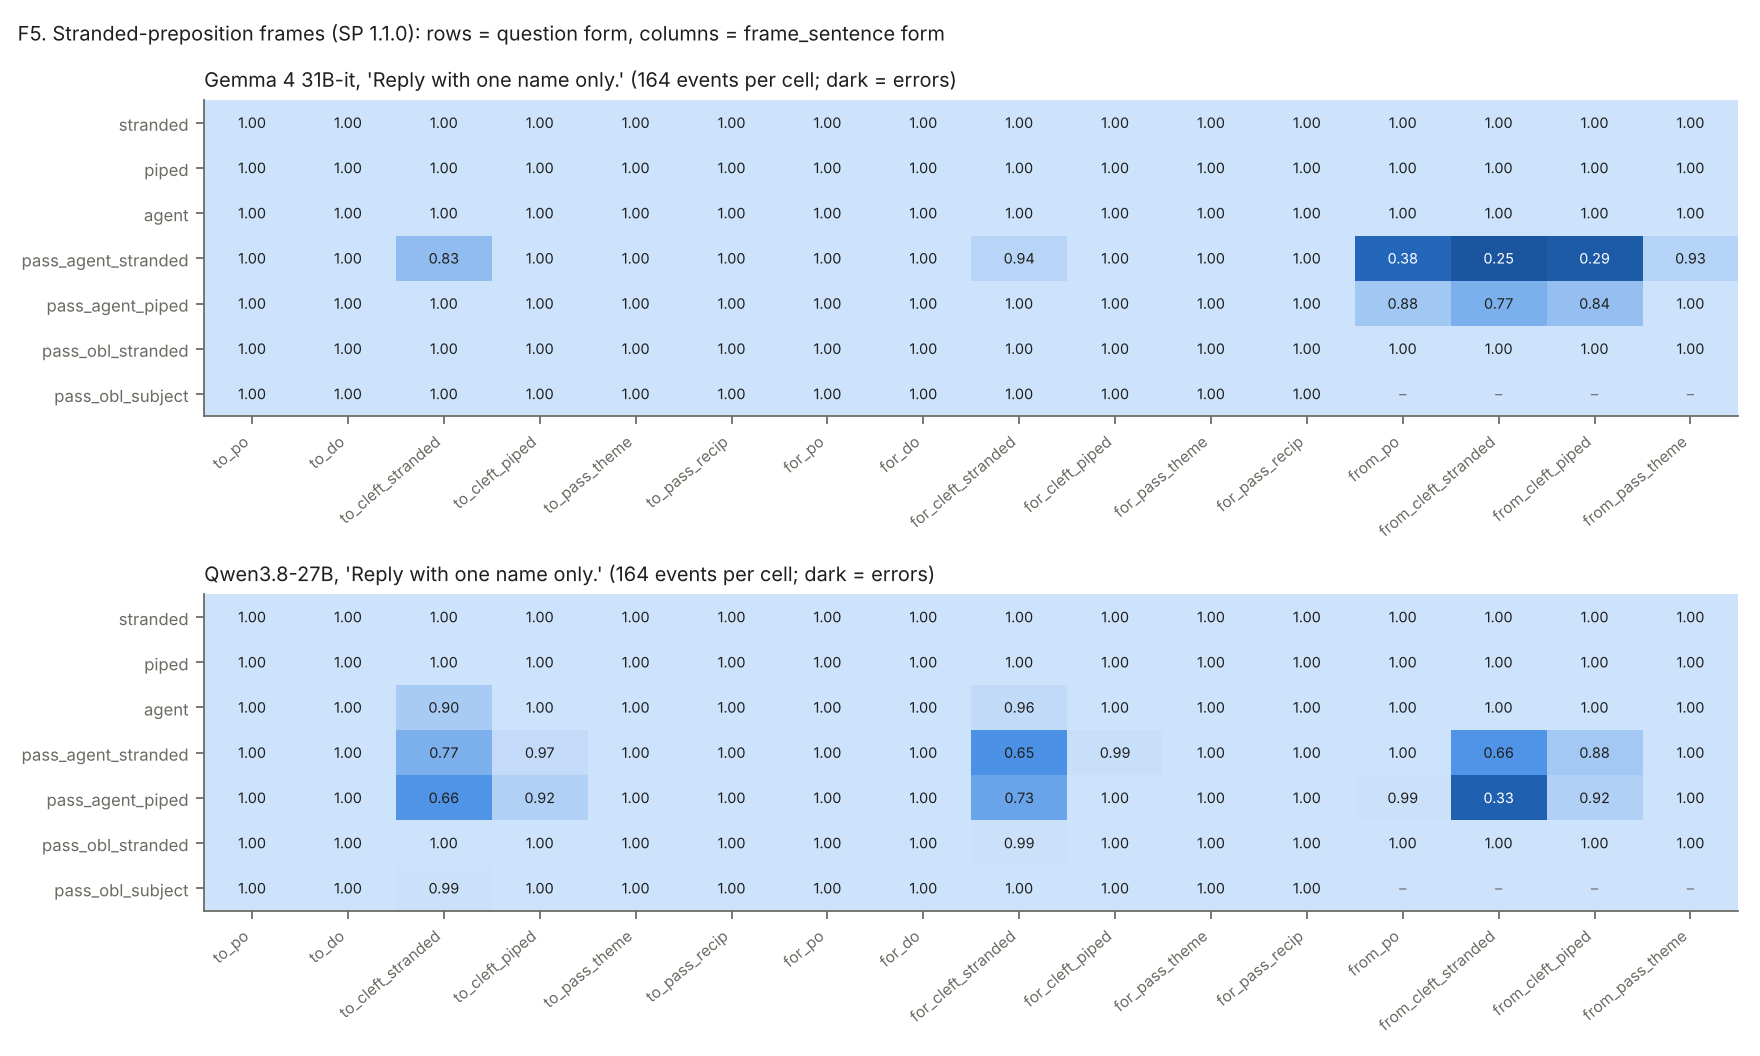
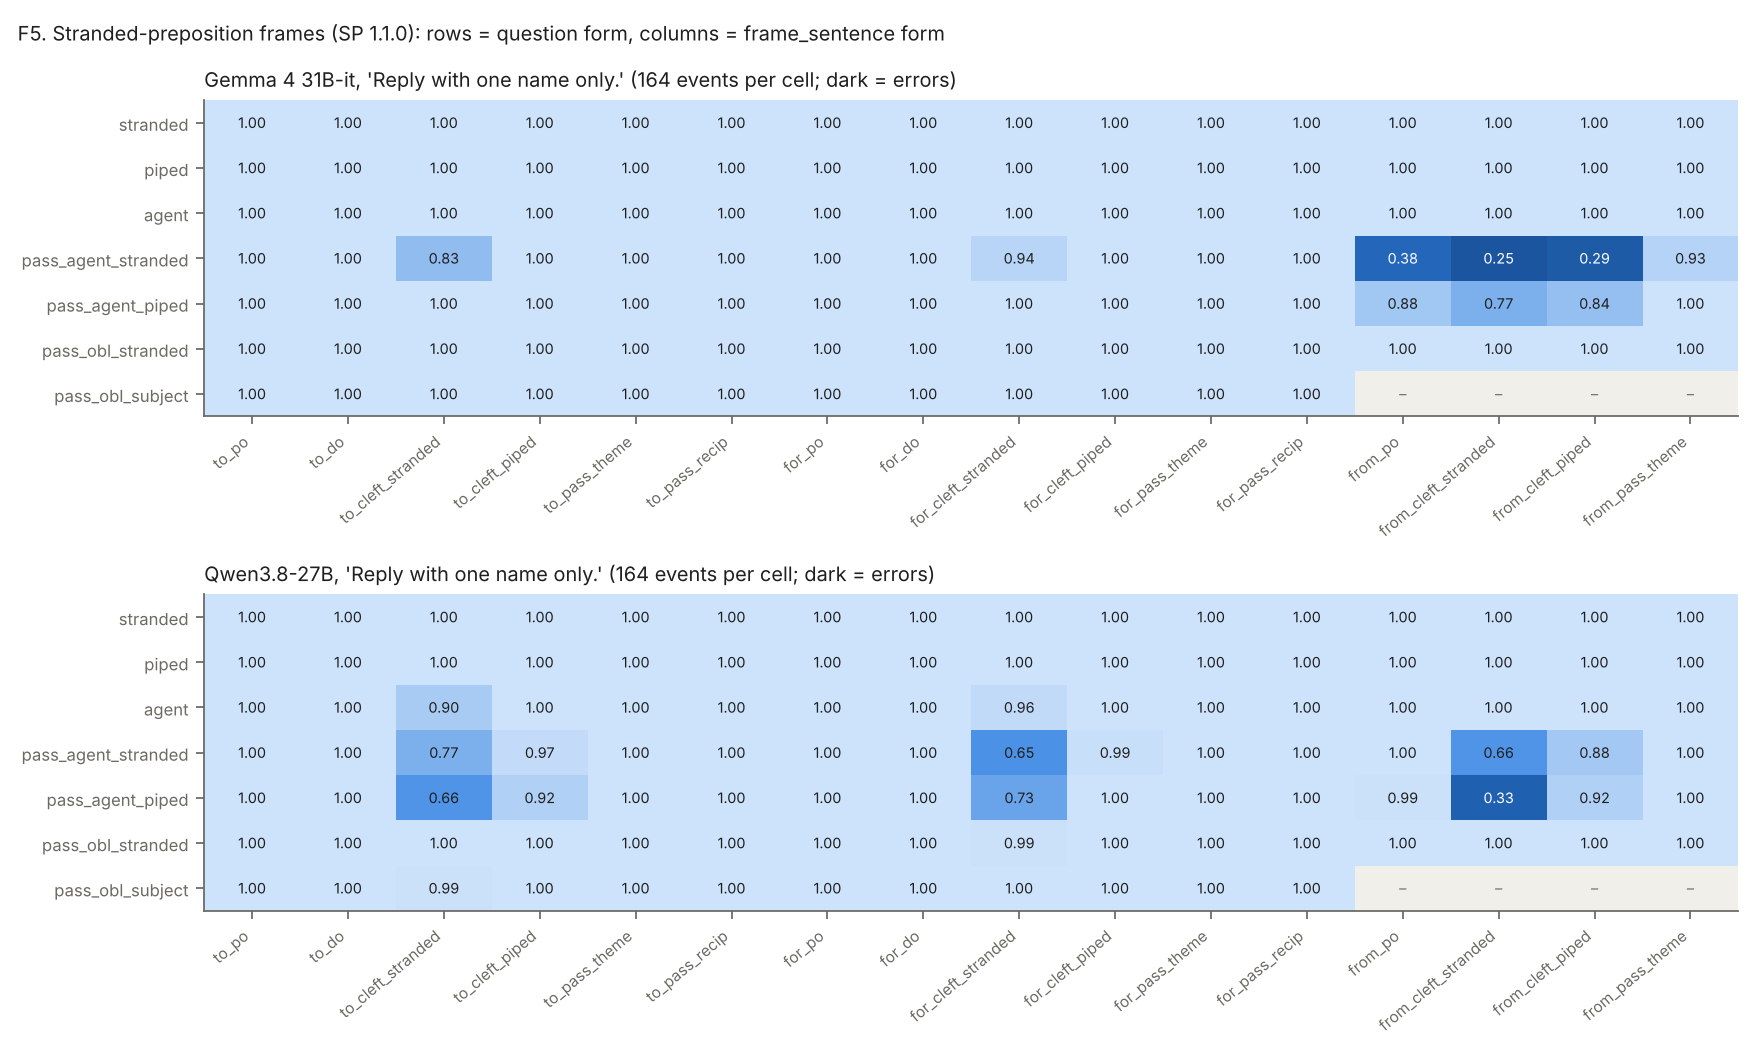
Extractor: 'the other person' statements; review package F7/T8 (question wordings x format)
- Statements with the definite description or relatives: "Frank was the other person
  watched by Daniel.", "The other person watched by Daniel was Frank.", "Daniel was
  the other person who watched Frank." (were ambiguous = wrong).
- make_review_figures: F7 heatmap of question wordings x answer format, T7/T8 tables
  (incl. three-place passive-agent pockets, name vs sentence); grey for not-run cells;
  CSVs with \n line endings.

Claude-Session: https://claude.ai/code/session_01PekALV7xH5h498nsmu3p6Q

Changed region(s): [[0.75, 0.8125, 1.0, 0.875], [0.75, 0.3438, 1.0, 0.4062]]

diff --git a/docs/order_to_role/review_2026-11/make_review_figures.py b/docs/order_to_role/review_2026-11/make_review_figures.py
@@ -98,7 +98,7 @@ def bar_group(ax, cats, series, labels, colors, ylim=(0, 1.08), fmt="{:.2f}"):
 def write_csv(path, header, rows):
     path.parent.mkdir(parents=True, exist_ok=True)
     with path.open("w", newline="") as fh:
-        w = csv.writer(fh)
+        w = csv.writer(fh, lineterminator="\n")
         w.writerow(header)
         w.writerows(rows)
 
@@ -260,7 +260,9 @@ def main(argv=None):
             role = sp.QUESTION_FORMS[q]
             M.append([g["cells"].get(f"{c}/{role}/{q}") for c in col_order])
             rows.append([short, q] + [("" if x is None else round(x, 3)) for x in M[-1]])
-        ax.imshow([[1.0 if x is None else x for x in r] for r in M], cmap=SEQ.reversed(), vmin=0, vmax=1, aspect="auto")
+        cm = SEQ.reversed().copy()
+        cm.set_bad("#f0efea")
+        ax.imshow([[float("nan") if x is None else x for x in r] for r in M], cmap=cm, vmin=0, vmax=1, aspect="auto")
         for i, r in enumerate(M):
             for j, x in enumerate(r):
                 ax.text(j, i, "–" if x is None else f"{x:.2f}", ha="center", va="center", fontsize=6.5,
@@ -314,6 +316,77 @@ def main(argv=None):
     fig.savefig(figs / "f6_passive_agent_by_verb.png", dpi=160)
     plt.close(fig)
     write_csv(tabs / "t6_passive_agent_by_verb.csv", ["model", "frame", "verb", "accuracy", "n"], rows)
+
+    # ---------- F7: question wordings x answer format ----------
+    variants = [
+        ("Who was someone {past} by?", "agent"), ("Who was somebody {past} by?", "agent"),
+        ("Who was a person {past} by?", "agent"), ("Who was the other person {past} by?", "agent"),
+        ("Who had someone been {past} by?", "agent"), ("Who has someone been {past} by?", "agent"),
+        ("Who did someone get {past} by?", "agent"), ("Who was the {ing} done by?", "agent"),
+        ("By whom was the {ing} done?", "agent"), ("Who did the {ing}?", "agent"),
+        ("Who was the {ing} done to?", "patient"), ("Who was {past} by someone?", "patient"),
+    ]
+    rows, present = [], []
+    for model, short in ((GEMMA, "Gemma 4 31B-it"), (QWEN, "Qwen3.8-27B")):
+        for tmpl, role in variants:
+            for instr, lab in ((NAME_ONLY, "name"), (SENTENCE, "sentence")):
+                fg, g = find_gen(runs, items, model, instr, tmpl)
+                if not g:
+                    continue
+                vals = [g["cells"].get(f"{c}/{role}/custom") for c in cons]
+                rows.append([short, tmpl, role, lab] + [("" if v is None else round(v, 3)) for v in vals] + [fg.name])
+                present.append((short, tmpl, role, lab, vals))
+    write_csv(tabs / "t7_question_variants_by_format.csv",
+              ["model", "question", "role", "format"] + cons + ["file"], rows)
+    tmpls = [t for t, _ in variants if any(p[1] == t for p in present)]
+    if tmpls:
+        fig, axes = plt.subplots(1, 2, figsize=(12.0, 0.42 * len(tmpls) + 1.8), sharey=True)
+        for ax, short in zip(axes, ("Gemma 4 31B-it", "Qwen3.8-27B")):
+            M, ylab = [], []
+            for t in tmpls:
+                byfmt = {p[3]: p[4] for p in present if p[0] == short and p[1] == t}
+                M.append([(byfmt.get("name") or [None] * 4)[i] for i in (0, 1)] +
+                         [(byfmt.get("sentence") or [None] * 4)[i] for i in (0, 1)])
+                ylab.append(t.replace("{past}", "V-ed").replace("{ing}", "V-ing"))
+            cm = SEQ.reversed().copy()
+            cm.set_bad("#f0efea")
+            ax.imshow([[float("nan") if x is None else x for x in r] for r in M], cmap=cm, vmin=0, vmax=1,
+                      aspect="auto")
+            for i, r in enumerate(M):
+                for j, x in enumerate(r):
+                    ax.text(j, i, "–" if x is None else f"{x:.2f}", ha="center", va="center", fontsize=7,
+                            color=MUTED if x is None else ("white" if x < 0.55 else INK))
+            ax.set_xticks(range(4))
+            ax.set_xticklabels(["name:\nactive", "name:\nobj. cleft", "sentence:\nactive", "sentence:\nobj. cleft"],
+                               fontsize=7)
+            ax.set_yticks(range(len(tmpls)))
+            ax.set_yticklabels(ylab, fontsize=7.5)
+            ax.axvline(1.5, color="white", lw=3)
+            ax.grid(False)
+            ax.set_title(short, fontsize=9)
+        fig.suptitle("F7. Question wordings × answer format (accuracy; dark = errors; grey = not run). Same 656 items per run.",
+                     fontsize=9, x=0.01, ha="left")
+        fig.tight_layout()
+        fig.savefig(figs / "f7_question_variants_by_format.png", dpi=160)
+        plt.close(fig)
+
+    # ---------- T8: three-place passive-agent pockets, name vs sentence ----------
+    rows = []
+    for model, short in ((GEMMA, "Gemma 4 31B-it"), (QWEN, "Qwen3.8-27B")):
+        for instr, lab in ((NAME_ONLY, "name"), (SENTENCE, "sentence")):
+            fg, g = find_gen(runs, items, model, instr, None, stimuli="sp")
+            if not g:
+                continue
+            acc = defaultdict(list)
+            for r in g["rows"]:
+                it = items[r["item_id"]]
+                if it.question_voice.startswith("pass_agent") and not it.form.startswith("pass"):
+                    key = it.lemma if it.frame == "from" else ("cleft_stranded" if it.form == "cleft_stranded" else "other")
+                    acc[(it.frame, key)].append(r["correct"])
+            for (fr, key), v in sorted(acc.items()):
+                rows.append([short, lab, fr, key, round(sum(v) / len(v), 3), len(v), fg.name])
+    write_csv(tabs / "t8_passive_agent_name_vs_sentence.csv",
+              ["model", "format", "frame", "verb_or_form", "accuracy", "n", "file"], rows)
 
     (HERE / "tables" / "provenance.json").write_text(json.dumps(provenance, indent=1))
     print("figures:", sorted(p.name for p in figs.glob("*.png")))

diff --git a/scripts/otr_generate_check.py b/scripts/otr_generate_check.py
@@ -75,7 +75,8 @@ def event_statement(text: str, agent: str, patient: str):
         X, Y = re.escape(x), re.escape(y)
         D = r"(?:the |a |an )?\w+"  # a direct object such as "the book" or "dinner"
         AUX = r"(?:was|were|got|is|has been|had been|have been|was being|got)"
-        IND = r"(?:(?:a person|somebody|someone|the person|the (?:person|one) who (?:was|got)) )?"  # echoes / relatives
+        IND = (r"(?:(?:a person|somebody|someone|the person|the other person|"
+               r"the (?:other )?(?:person|one) who (?:was|got)) )?")  # echoes of the question / relatives
         pats = (
             rf"{Y} {AUX} {IND}(?:\w+ )?\w+ by {X}",
             # three-place frames (stranded-preposition stimuli): X = doer, Y = to/for/from object
@@ -87,6 +88,9 @@ def event_statement(text: str, agent: str, patient: str):
             rf"It was {Y} (?:that|whom|who) {X} \w+ {D} (?:to|for|from)",
             rf"It was (?:to|for|from) {Y} that {X} \w+ {D}",
             rf"{X} \w+ {Y}",
+            rf"{X} was the (?:other )?(?:person|one) who \w+ {Y}",
+            rf"The (?:other )?(?:person|one), {Y}, was \w+ by {X}",
+            rf"The (?:other )?(?:person|one) \w+ by {X} was {Y}",
             rf"It was {X} (?:who|that) \w+ {Y}",
             rf"It was {Y} (?:that|whom|who) {X} \w+",
             rf"It was by {X} that {Y} was \w+",

diff --git a/tests/test_generate_check.py b/tests/test_generate_check.py
@@ -89,3 +89,11 @@ def test_theme_passive_variants():
                 "A letter was received by Leon from Mira.", "The song was learned by Leon from Mira."):
         assert gc.extract_answer(out, NM, role="agent", **D) == ("statement", "Leon"), out
     assert gc.extract_answer("The photo was shown to Leon by Mira.", NM, role="agent", **D) == ("statement", "Mira")
+
+
+def test_other_person_statements():
+    for out in ("Julia was the other person chased by Lisa.", "The other person chased by Lisa was Julia.",
+                "The other person, Julia, was chased by Lisa.", "Lisa was the other person who chased Julia.",
+                "Lisa was the one who chased Julia."):
+        assert gc.extract_answer(out, N, role="agent", **R) == ("statement", "Lisa"), out
+    assert gc.extract_answer("Lisa was the other person chased by Julia.", N, role="agent", **R) == ("statement", "Julia")
